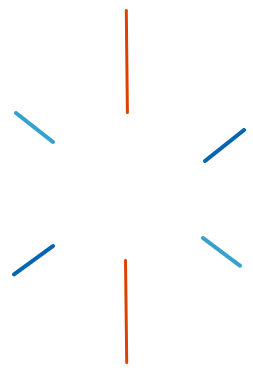
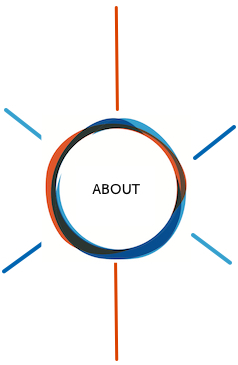
redo

diff --git a/stylesheet.css b/stylesheet.css
@@ -1,56 +1,61 @@
+#beautyea {
+	background-color: aqua;
+}
 #wrapper {
-	width:750px;
-	height:900px;
+	width:auto;
+	height:875px;;
 }
 
 
 a #frbfi {
+	position: absolute;
 	width:150px;
-	margin-left: 500px;
-	margin-top: 50px;
-}
-
-a:hover #frbfi {
-	
-}
-
-a #frinvbfi {
-	width:150px;
-	float: right;
-	margin-right: -150px;
-	margin-top: 200px;
-}
-
-a #frtofu {
-	width:150px;
-	float:right;
-	margin-top: 450px;
-	margin-right: -160px;
+	left: 550px;
+	top: 75px;
 }
 
 a #frwritings {
+	position: absolute;
 	width:150px;
-	float:left;
-	margin-top: 0px;
-	margin-left: 250px;
-}
+	left: 350px;
+	top: 250px;
+	}
 
-a #frabout {
+a #frinvbfi {
+	position: absolute;
 	width:150px;
-	margin-left: 108px;
-	margin-top: 125px;
+	left:750px;
+	top:250px;
 }
 
 a #frdesrv {
+	position: absolute;
 	width:150px;
-	margin-left: 250px;
-	margin-top:	-25px;
+	left: 350px;
+	top: 500px;
 }
 
-#frbeau {
+
+a #frtofu {
+	position: absolute;
 	width:150px;
-	margin-left: 500px;
-	margin-top:0px;
+	left: 750px;
+	top:500px;
+}
+
+a #frbeau {
+	position: absolute;
+	width:150px;
+	left: 550px;
+	top: 625px;
+}
+
+#lines {
+	
+	position: absolute;
+	left: 510px;
+	top: 250px;
+	
 }
 
 

diff --git a/index.html b/index.html
@@ -8,12 +8,13 @@
 <body>
 	<div id="wrapper">
 		<a href="http://www.before-i.com"><img id="frbfi" src="images/fr_bfi.jpg"/></a>
-		<a href="http://investor.before-i.com"><img id="frinvbfi" src="images/fr_inv_bfi.jpg"/></a>
-		<a href="T.OF.U/index.html"><img id="frtofu" src="images/fr_tofu.jpg"/></a>
 		<a href="http://www.beforeimission.blogspot.com"><img id="frwritings" src="images/fr_writings.jpg"/></a>
-		<a><img id="frabout" src="images/fr_about.jpg"/></a> 
-		<a href="http://www.i-deserve.org"><img id="frdesrv" src="images/fr_idesrv.jpg"/></a>
+		<a href="http://investor.before-i.com"><img id="frinvbfi" src="images/fr_inv_bfi.jpg"/></a>
+		<a><!img id="frabout" src="images/fr_about.jpg"/></a>
+		<a href="http://www.i-deserve.org"><img id="frdesrv" src="images/fr_idesrv.jpg"/></a>	
+		<a href="T.OF.U/index.html"><img id="frtofu" src="images/fr_tofu.jpg"/></a>
 		<a href="beautyea/index.html"><img id="frbeau" src="images/fr_beau.jpg"/></a>
+		<img id="lines" src="images/lines.jpg"/>
 	</div>
 	
 </body>	
